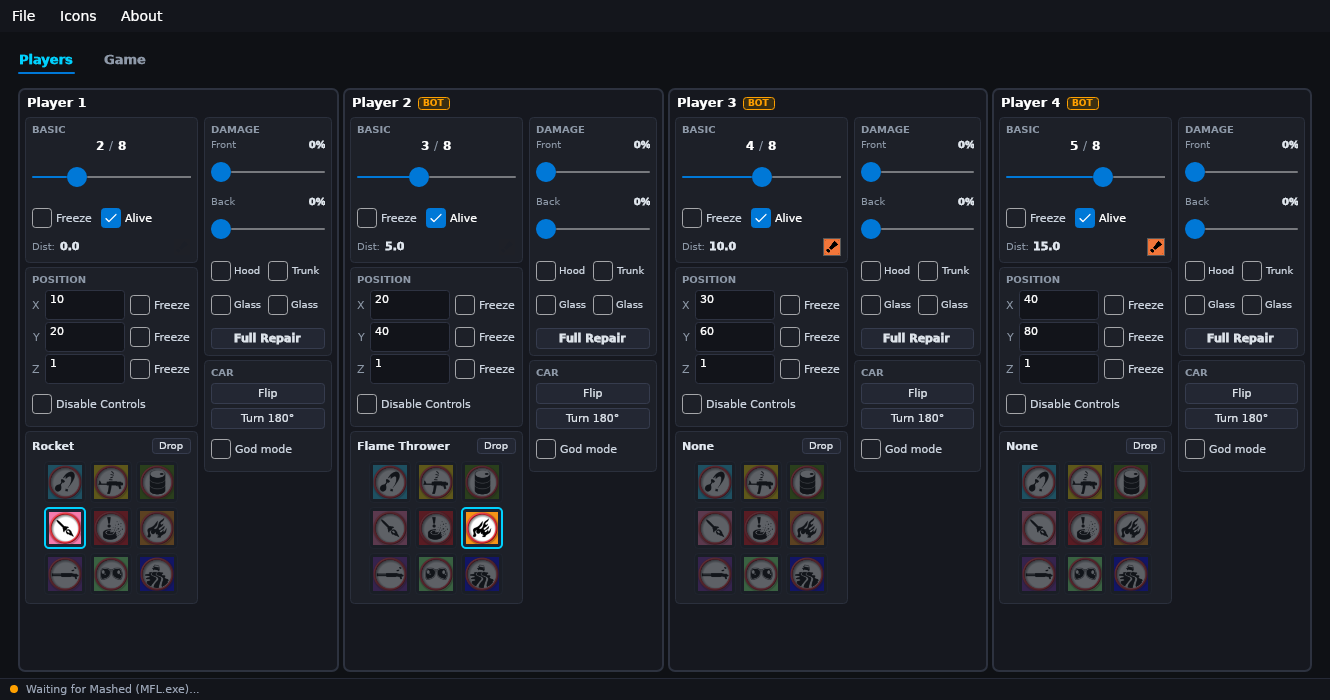
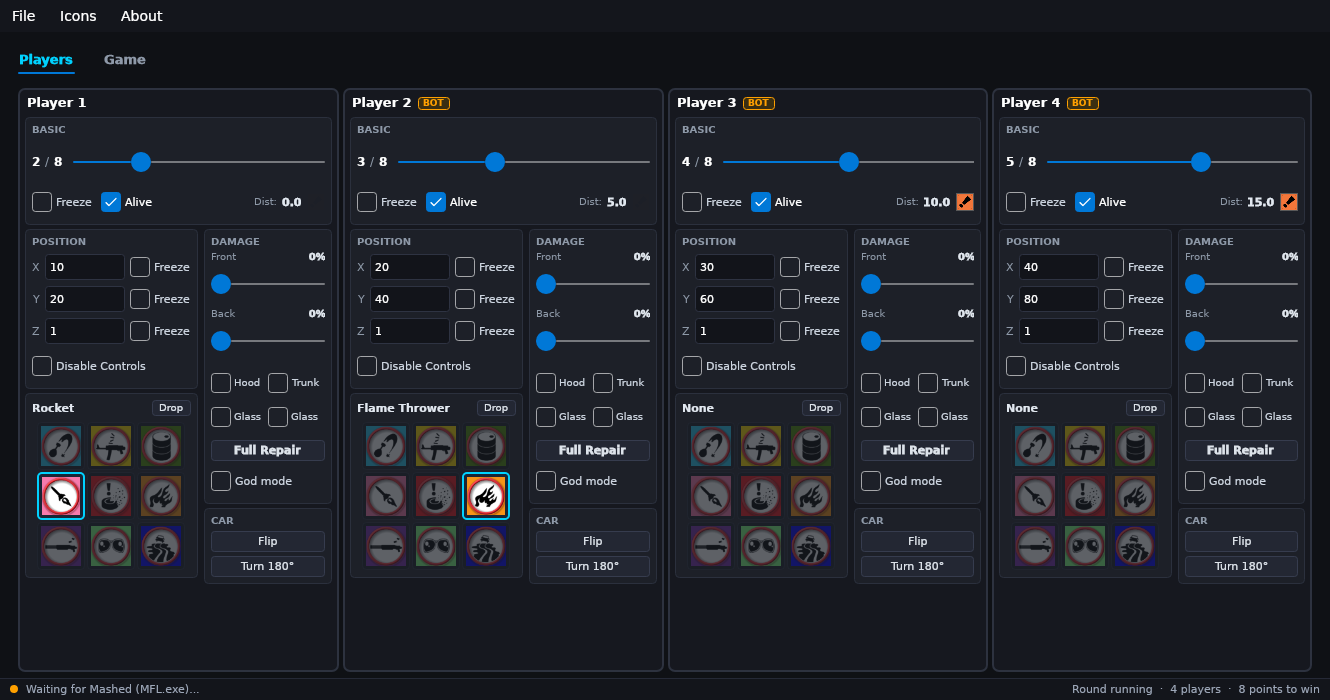
Update README and screenshots for the new layout

diff --git a/README.md b/README.md
@@ -39,7 +39,7 @@ The trainer is distributed in two builds on each release:
 - **Weapons**: Equip any of the 9 weapons instantly, or drop active weapon
 - **Damage**: Adjust front and back damage sliders, toggle individual damage parts (Hood, Trunk, Glass), and 1-click Full Repair
 - **Car Physics**: 1-click **Flip** (rights an upside-down car) and **Turn 180°**
-- **God Mode**: Per-player option that keeps the car fully repaired while alive
+- **God Mode**: Option in the Damage block that keeps the car fully repaired while alive
 - **Bot Badge**: Bot-controlled players are marked with a BOT tag
 
 ### Game & Camera
@@ -76,8 +76,9 @@ The trainer features a built-in memory target simulator (`MockMemoryTarget`) tha
 
 ### v0.2.1 (unreleased)
 - **Icon Packs**: New *Icons* menu with in-game (default) and classic weapon icons.
-- **God Mode**: Per-player option that keeps the car repaired.
+- **God Mode**: Option in the Damage block that keeps the car fully repaired while alive
 - **Bot Badge**: Bot players are marked in the Players tab.
+- **Layout**: Basic block spans the full player card; round state, player count and points to win moved into the status bar; larger weapon grids.
 - **Numeric Inputs**: Game tab values use validated numeric spinners with limits.
 - **Status Feedback**: Controls are disabled until Mashed is attached; failed memory writes and multiple MFL.exe instances are reported in the status bar.
 - **Fixes**: Fixed a PropertyChanged handler leak on reconnect; process detection now polls once per second while detached.
